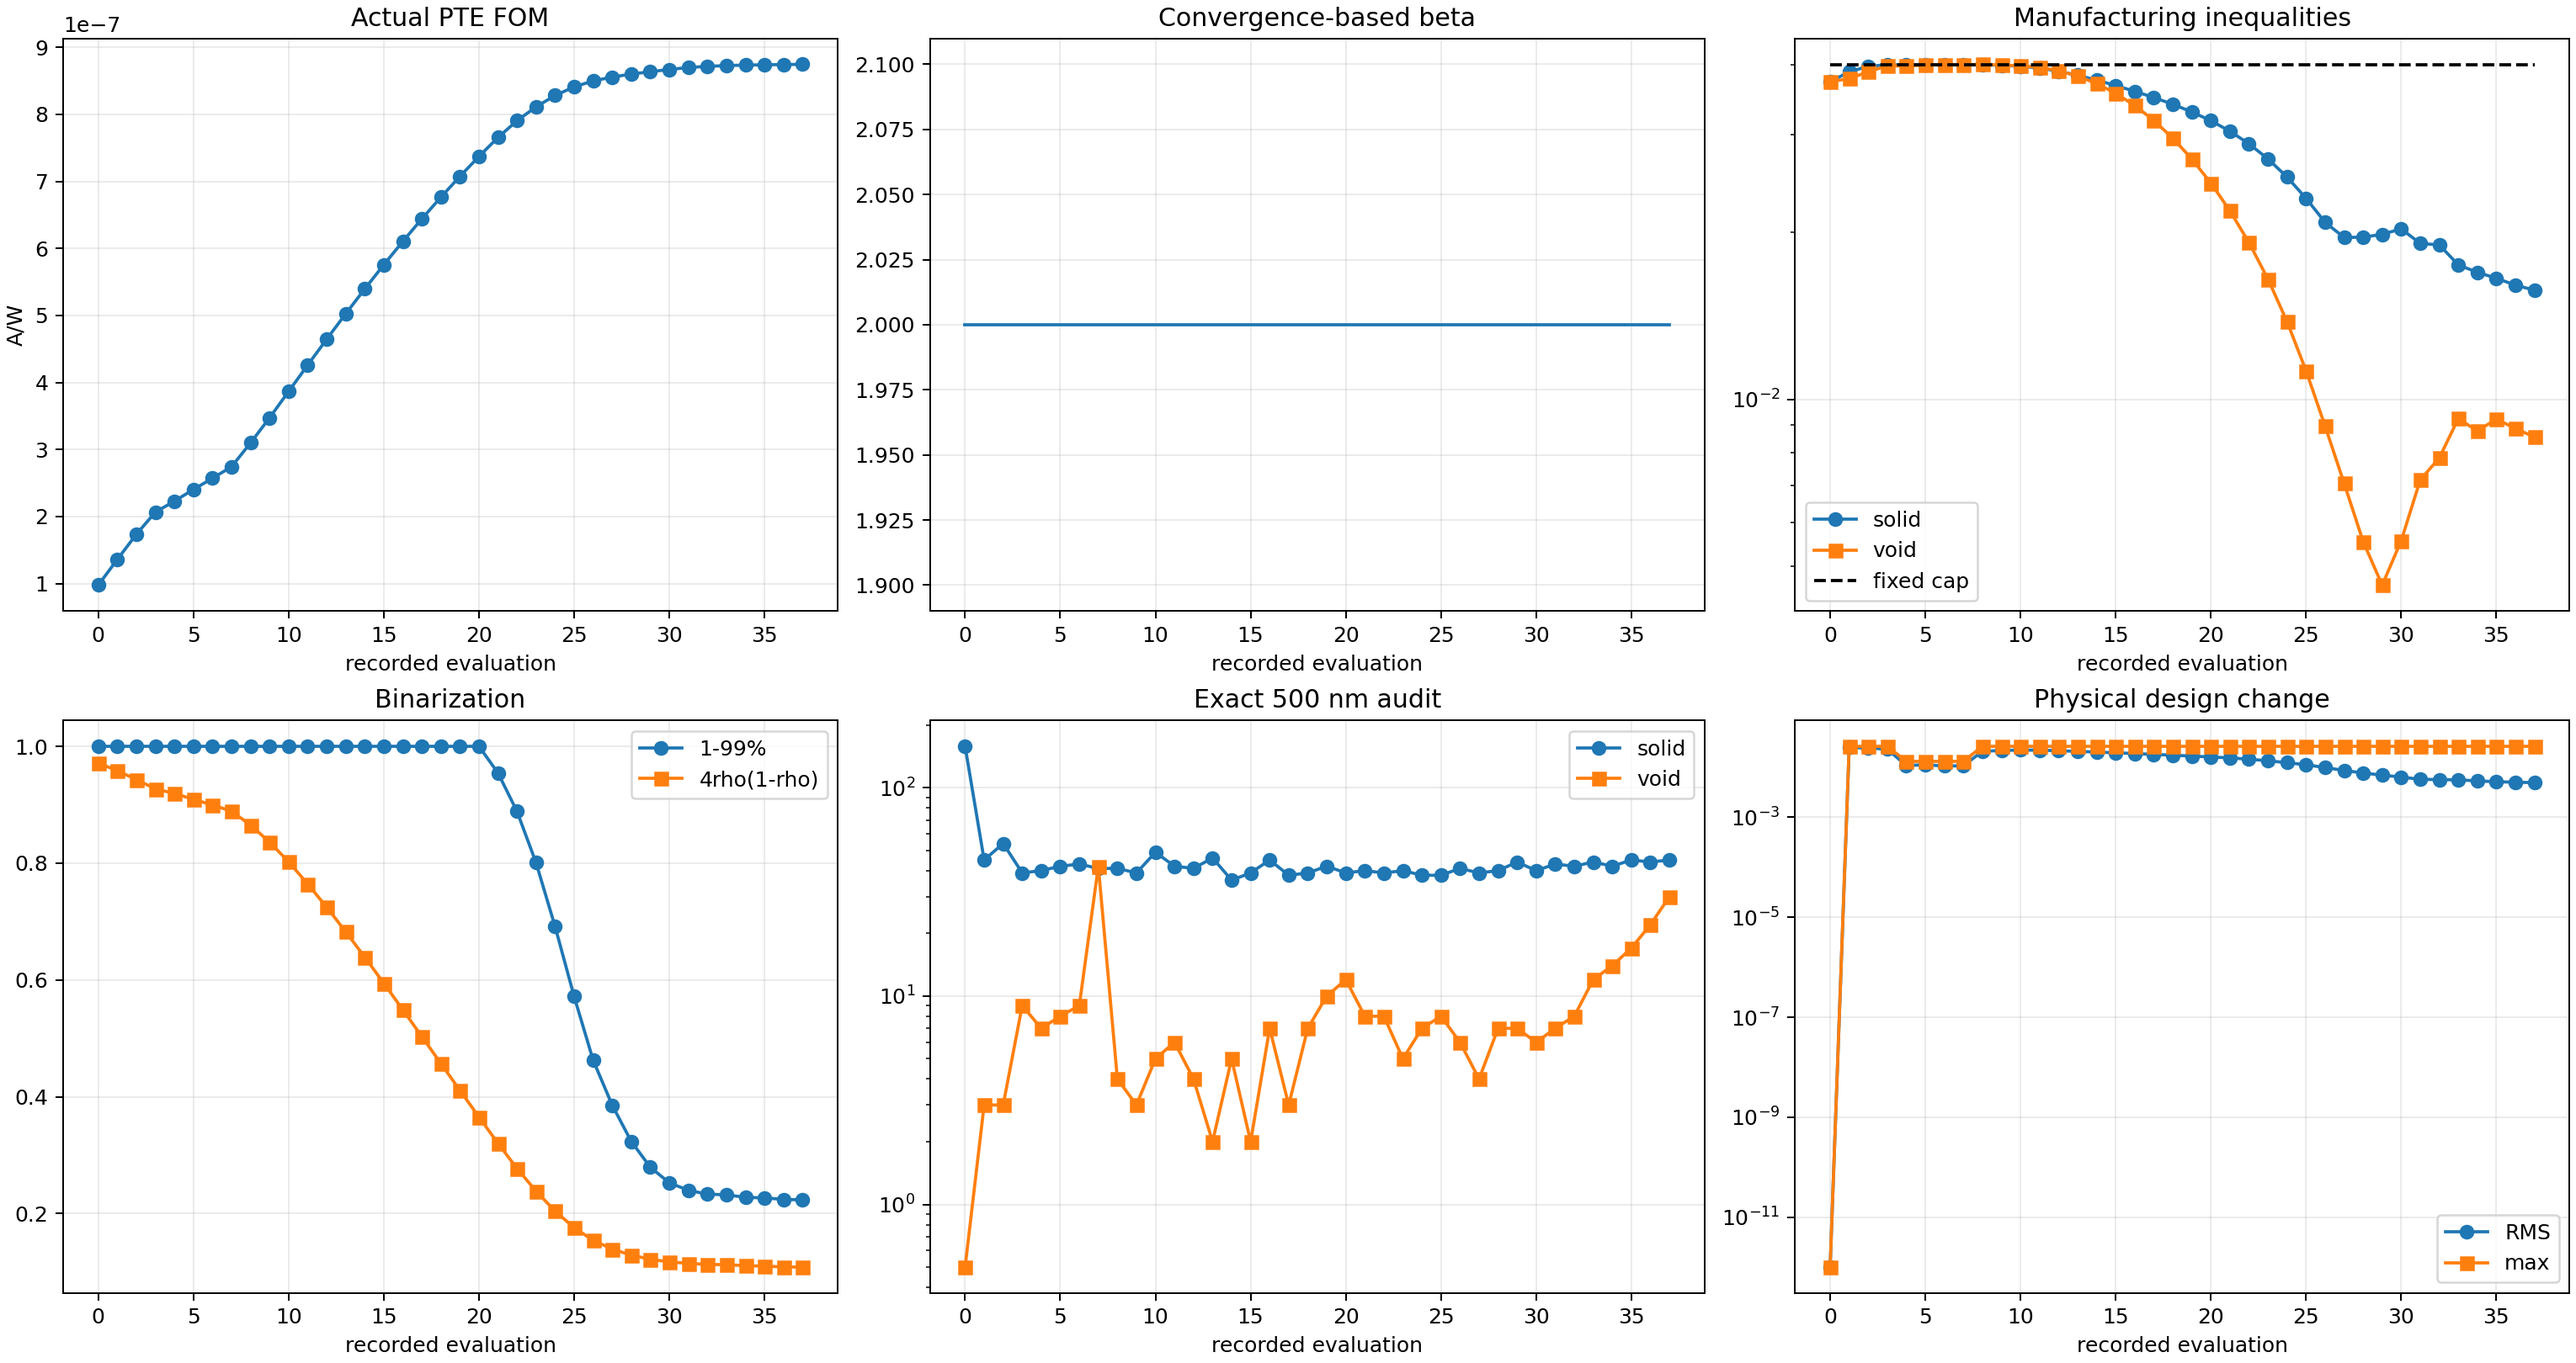
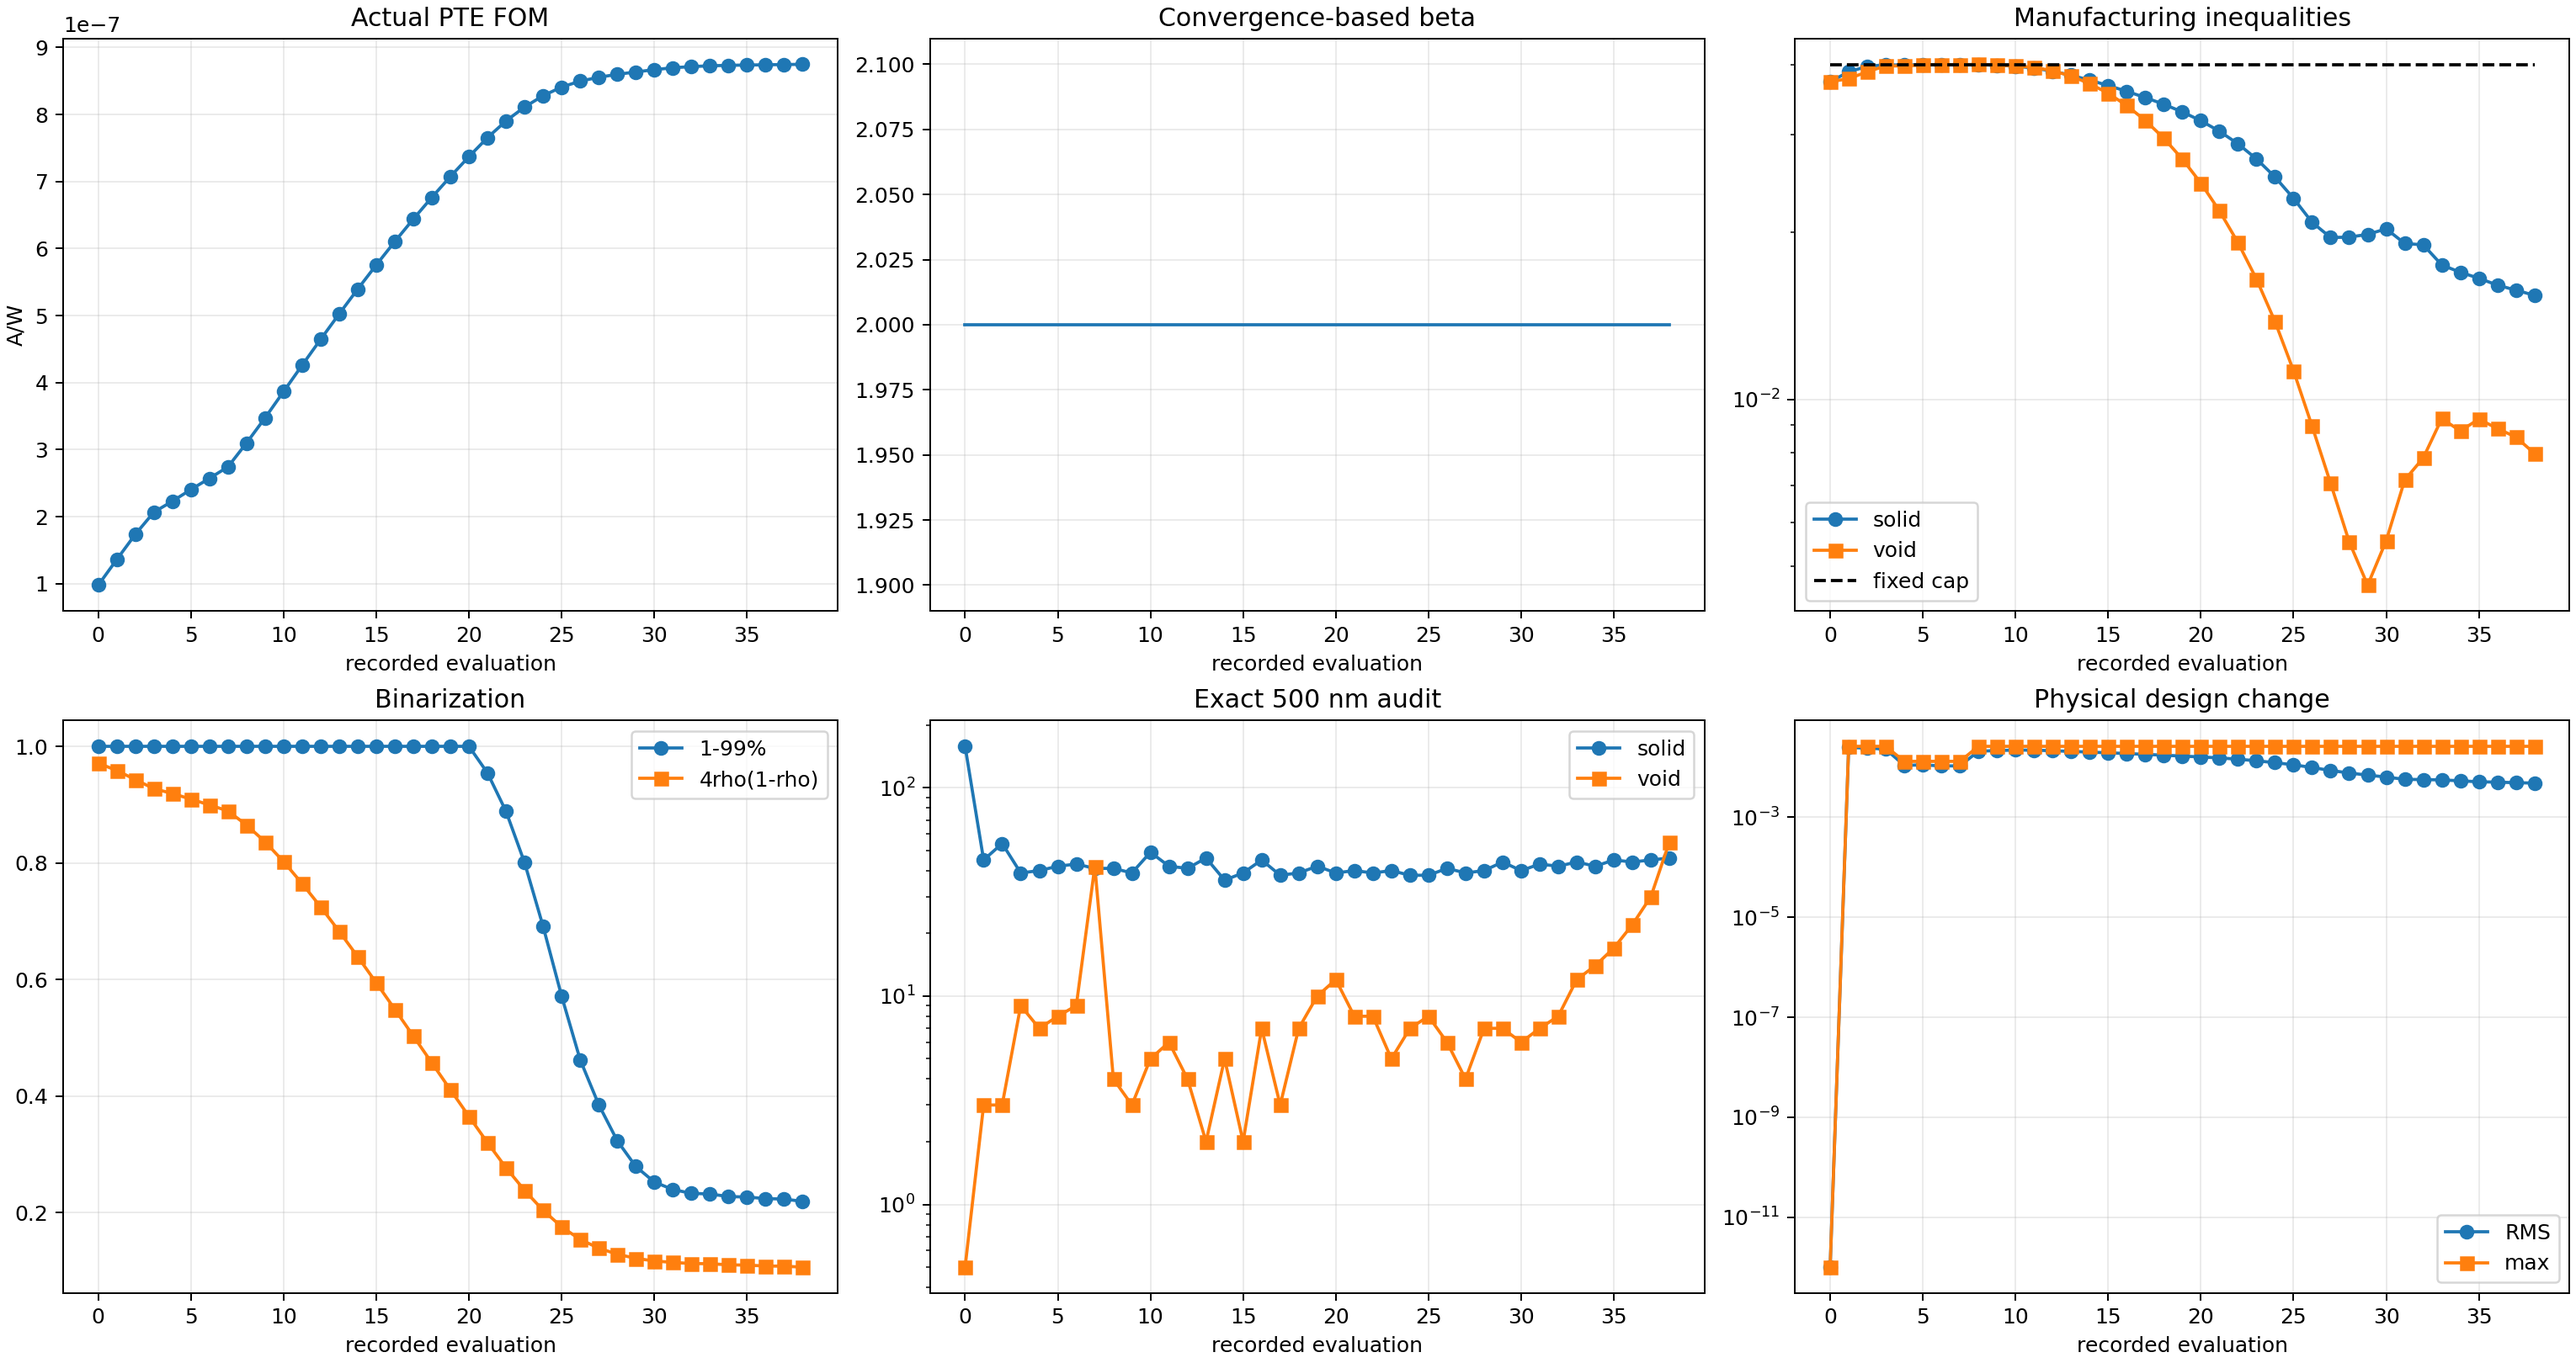
Record Run 003 run003_b002_s038_g038_accepted_mma

diff --git a/photothermal_pte/optimization_runs/run_003_gaussian10_w8p5_current_max_converged/results/OPTIMIZATION_REPORT.md b/photothermal_pte/optimization_runs/run_003_gaussian10_w8p5_current_max_converged/results/OPTIMIZATION_REPORT.md
@@ -2,10 +2,10 @@
 
 Status: `RUNNING_CONVERGENCE_BASED_CONSTRAINED_BETA_CONTINUATION`
 
-Current stage: beta=2, accepted stage iteration=37, global iteration=37.
+Current stage: beta=2, accepted stage iteration=38, global iteration=38.
 
-Actual FOM: `8.744964123682e-07 A/W`. Fixed-cap solid/void constraints: `1.572311e-02` / `8.548116e-03` with cap `4.000000e-02`.
+Actual FOM: `8.748431519339e-07 A/W`. Fixed-cap solid/void constraints: `1.538828e-02` / `7.983520e-03` with cap `4.000000e-02`.
 
-Exact 500 nm bad cells: solid `45`, void `30`. Stage convergence: `False` (recent FOM/density changes have not plateaued).
+Exact 500 nm bad cells: solid `46`, void `55`. Stage convergence: `False` (recent FOM/density changes have not plateaued).
 
 Beta is promoted only after fixed-inequality feasibility and a four-update FOM/design plateau; it is never promoted after one nominal update.
